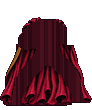
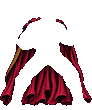
KROS's cape blinks and fades away in place at round start
Replaces the cape toss. During the ROUND banner the cape (cut out on its own,
drawn behind the cape-less idle) blinks faster and fainter until it's gone; the
idle holds still meanwhile. Still purely visual and read from the sim's intro
frame counter, so rollback-safe. cape_cutout.py keeps the lining fill behind
--fill for a future toss.

diff --git a/tools/aseprite/cape_cutout.py b/tools/aseprite/cape_cutout.py
@@ -1,9 +1,10 @@
-"""Cut KROS's cape out on its own, for the round-start cape toss.
-The cape = what the caped stance has outside the cape-less stance's silhouette (lined up by
-the feet, the way build_kros.lua lines them up). Where the body was in front of the cape,
-each row is filled between the cape's edges with the dark inside of the cape, so it reads as
-a whole cloth once it flies off.
-Usage: python tools/aseprite/cape_cutout.py art/kros/keys/cape_1.png art/kros/keys/nocape_1.png art/kros/keys/cape_only.png
+"""Cut KROS's cape out on its own: the cape = what the caped stance has outside the cape-less
+stance's silhouette (lined up by the feet, the way build_kros.lua lines them up). Drawn behind
+the cape-less idle it looks like the caped idle, so the cape can blink and fade on its own at
+round start (FighterView).
+With --fill, the gaps the body was covering are filled with the cape's dark lining, so it reads
+as a whole cloth away from the body (for a future cape toss).
+Usage: python tools/aseprite/cape_cutout.py art/kros/keys/cape_1.png art/kros/keys/nocape_1.png art/kros/keys/cape_only.png [--fill]
 Output has the same size and feet position as the first input."""
 import sys
 import numpy as np
@@ -41,7 +42,7 @@ out[keep] = cape[keep]
 # fill between the cape's outer edges, row by row and column by column, so the parts the
 # body was covering (chest, arms) close up into one cloth
 fill = keep.copy()
-for _ in range(2):
+for _ in range(2 if "--fill" in sys.argv else 0):
     for y in range(h):
         xs = np.where(fill[y])[0]
         if len(xs) >= 2:

diff --git a/docs/character_pipeline.md b/docs/character_pipeline.md
@@ -119,9 +119,9 @@ Like CED, KROS's moves come from ChatGPT key-pose sheets (figures on flat magent
 costume with the same three poses (stance, knee chamber, high kick): `art/kros/ref/kicks_cape.webp`
 and `art/kros/ref/kicks_nocape.webp`. The mid kick is made from the high kick by lowering the leg.
 Each costume is its own `.aseprite` file and sprite set: `kros` (cape) and `kros_nocape`. Both have
-`idle`, `st_mk` and `st_hk`, 110 px tall. In a match KROS wears the cape at the start of each round
-and throws it off during the "ROUND n" banner (`FighterView`, `CAPED` / `TOSS_AT`), then fights in
-`kros_nocape`. The flying cape is the `cape_toss` tag of `kros.aseprite`, cut out by
+`idle`, `st_mk` and `st_hk`, 110 px tall. In a match KROS wears the cape at the start of each round; during the "ROUND n" banner it blinks
+and fades away in place (`FighterView`, `CAPED` / `FADE_AT` / `FADE_LEN`), then he fights in
+`kros_nocape`. The fading cape is the `cape` tag of `kros.aseprite`, cut out by
 `tools/aseprite/cape_cutout.py` (`art/kros/keys/cape_1.png art/kros/keys/nocape_1.png art/kros/keys/cape_only.png`)
 before `build_kros.lua` runs. After re-exporting a sheet, run `godot --headless --path . --import`
 so the game picks up the new texture.
@@ -143,4 +143,4 @@ python tools/aseprite/export.py art/kros/kros.aseprite kros
 ```
 
 The same four with `nocape` / `kros_nocape` make the other costume. In-game check:
-`godot --path . --script res://tests/kros_shot.gd -- --out=DIR [--skin=kros]` (a skin forces one costume, no toss).
+`godot --path . --script res://tests/kros_shot.gd -- --out=DIR [--skin=kros]` (a skin forces one costume, no cape fade).
